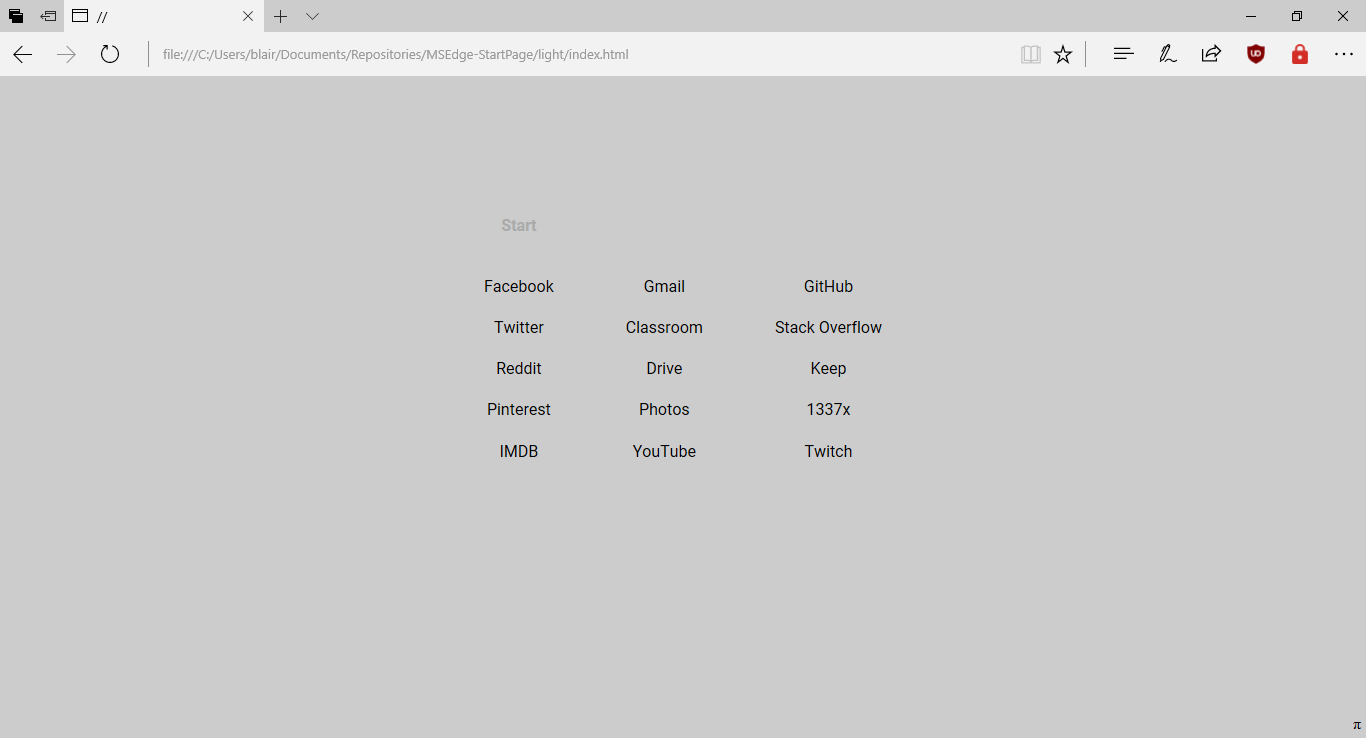
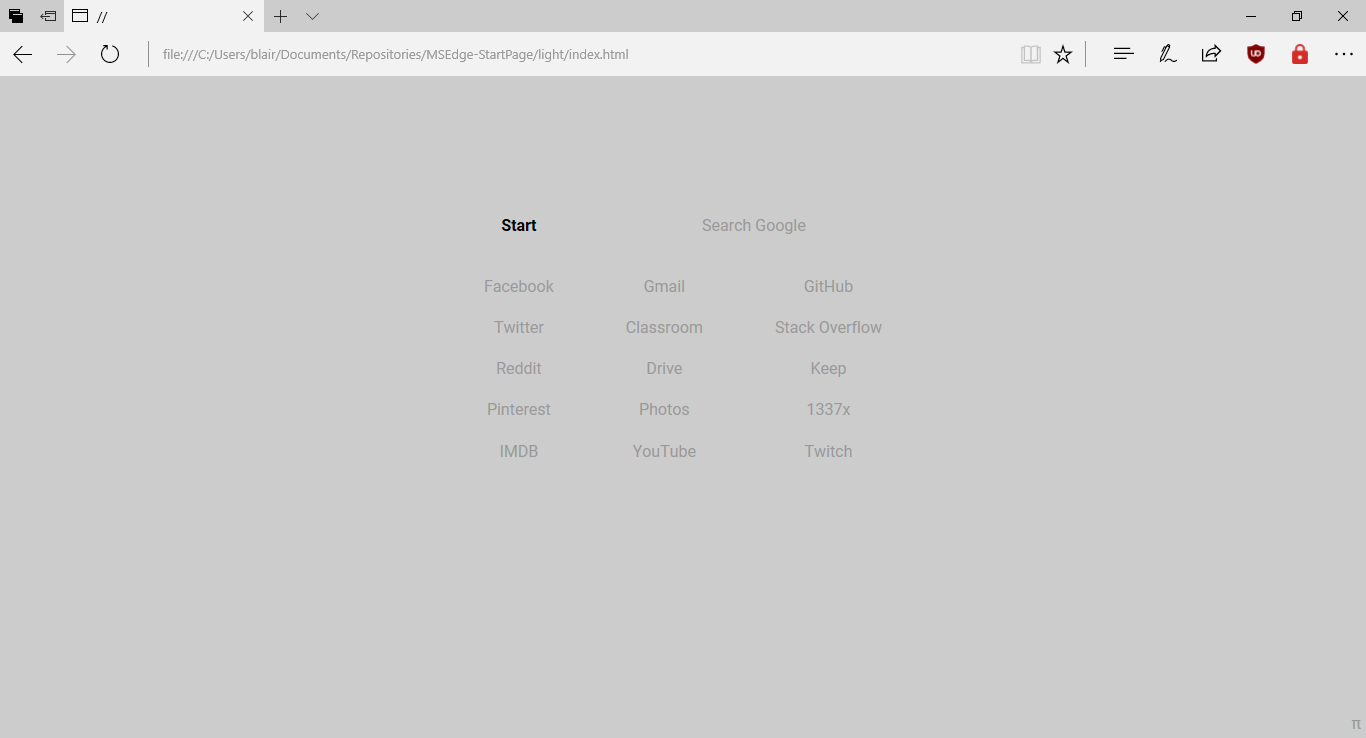
Updated light one too

diff --git a/light/css/style.css b/light/css/style.css
@@ -1,22 +1,22 @@
 body
 {
 	background-color: #cccccc;
+	font-family: 'Roboto', sans-serif;
 }
 
 a
 {
 	text-decoration: none;
-	color: #000000;
+	color: #999999;
 }
 a:hover
 {
-	color: #aaaaaa;
+	color: #000000;
 }
 
 table
 {
-	color: #aaaaaa;
-	font-family: 'Roboto', sans-serif;
+	color: #000000;
 	text-align: center;
 	margin: auto;
 	padding-top: 15vh;
@@ -31,7 +31,7 @@ th
 }
 
 p {
-	color: #aaaaaa;
+	color: #999999;
 	position: absolute;
 	bottom: 0px;
 	right: 0px;
@@ -42,7 +42,7 @@ p {
 input {
 	width: 100%;
 	height: 100%;
-	color: #aaaaaa;
+	color: #999999;
 	background-color: #cccccc;
 	border: none;
 	font-size: 16px;
